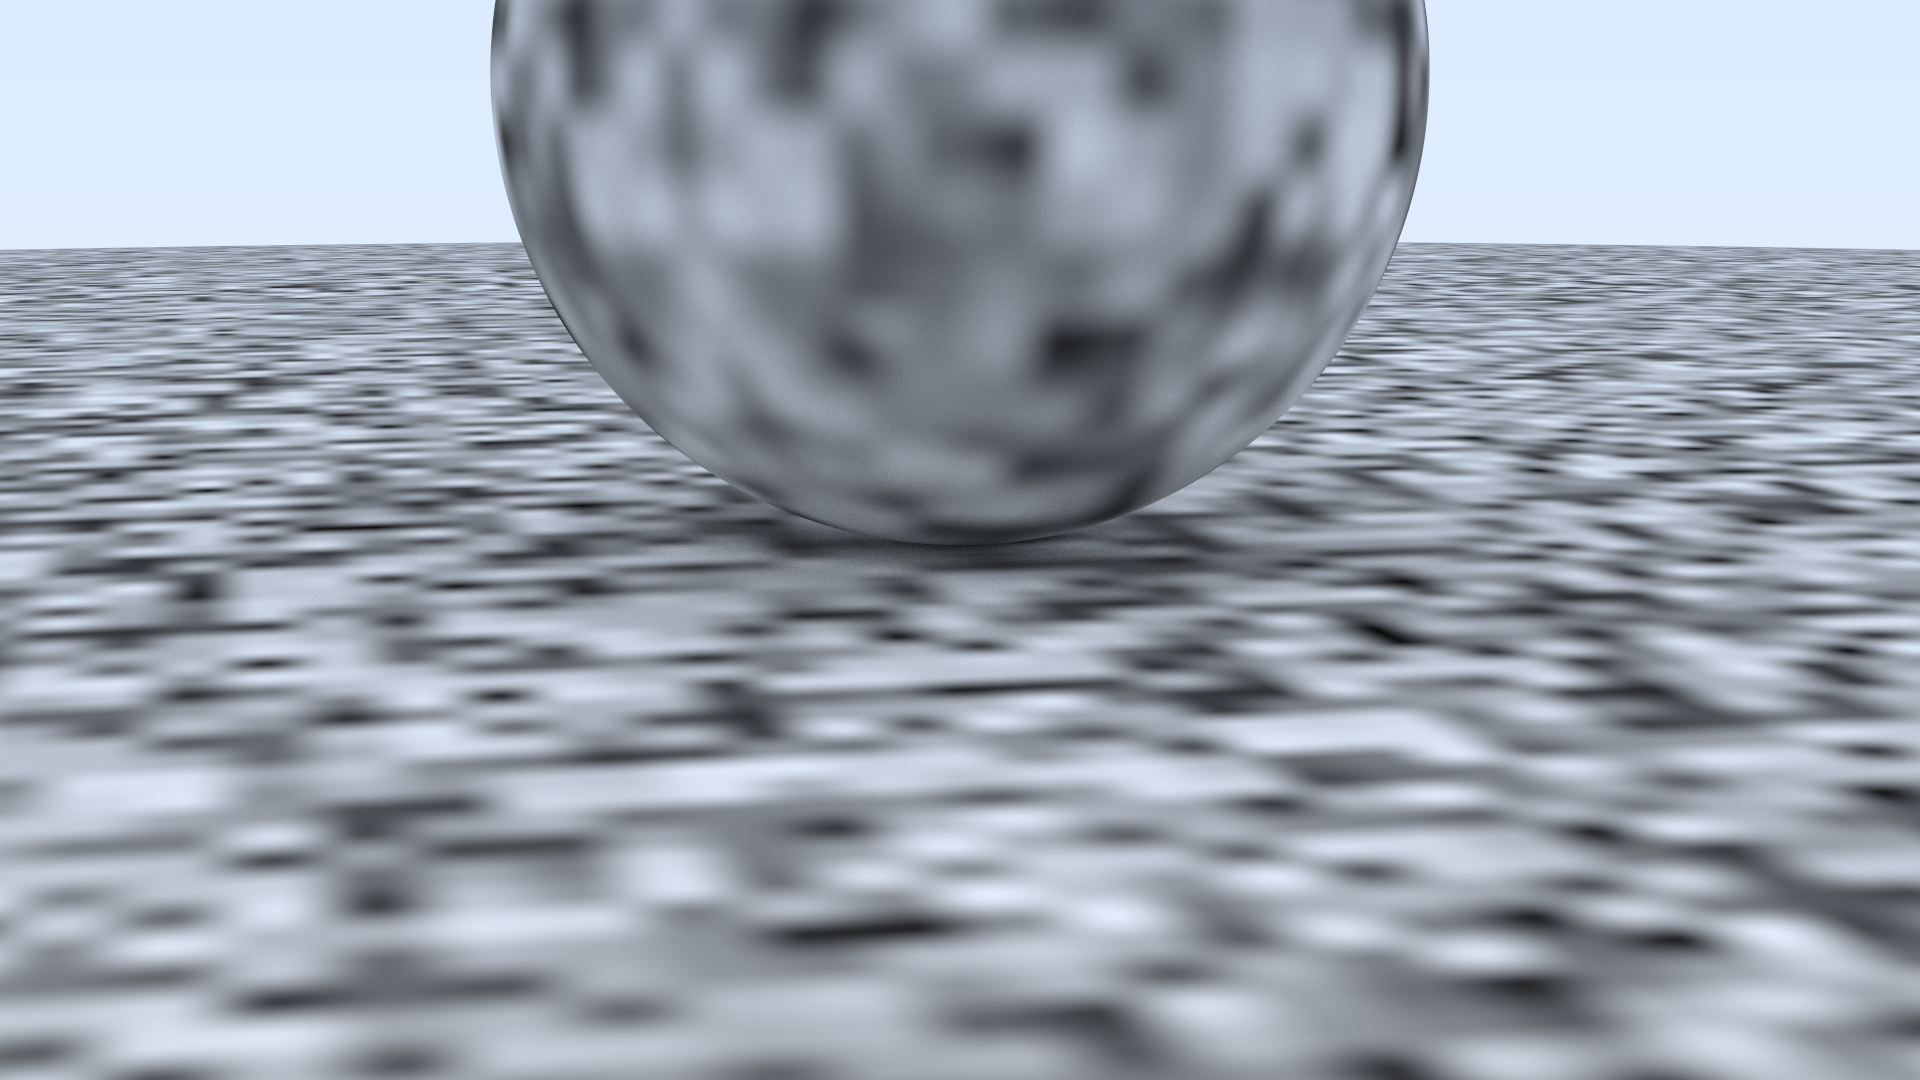
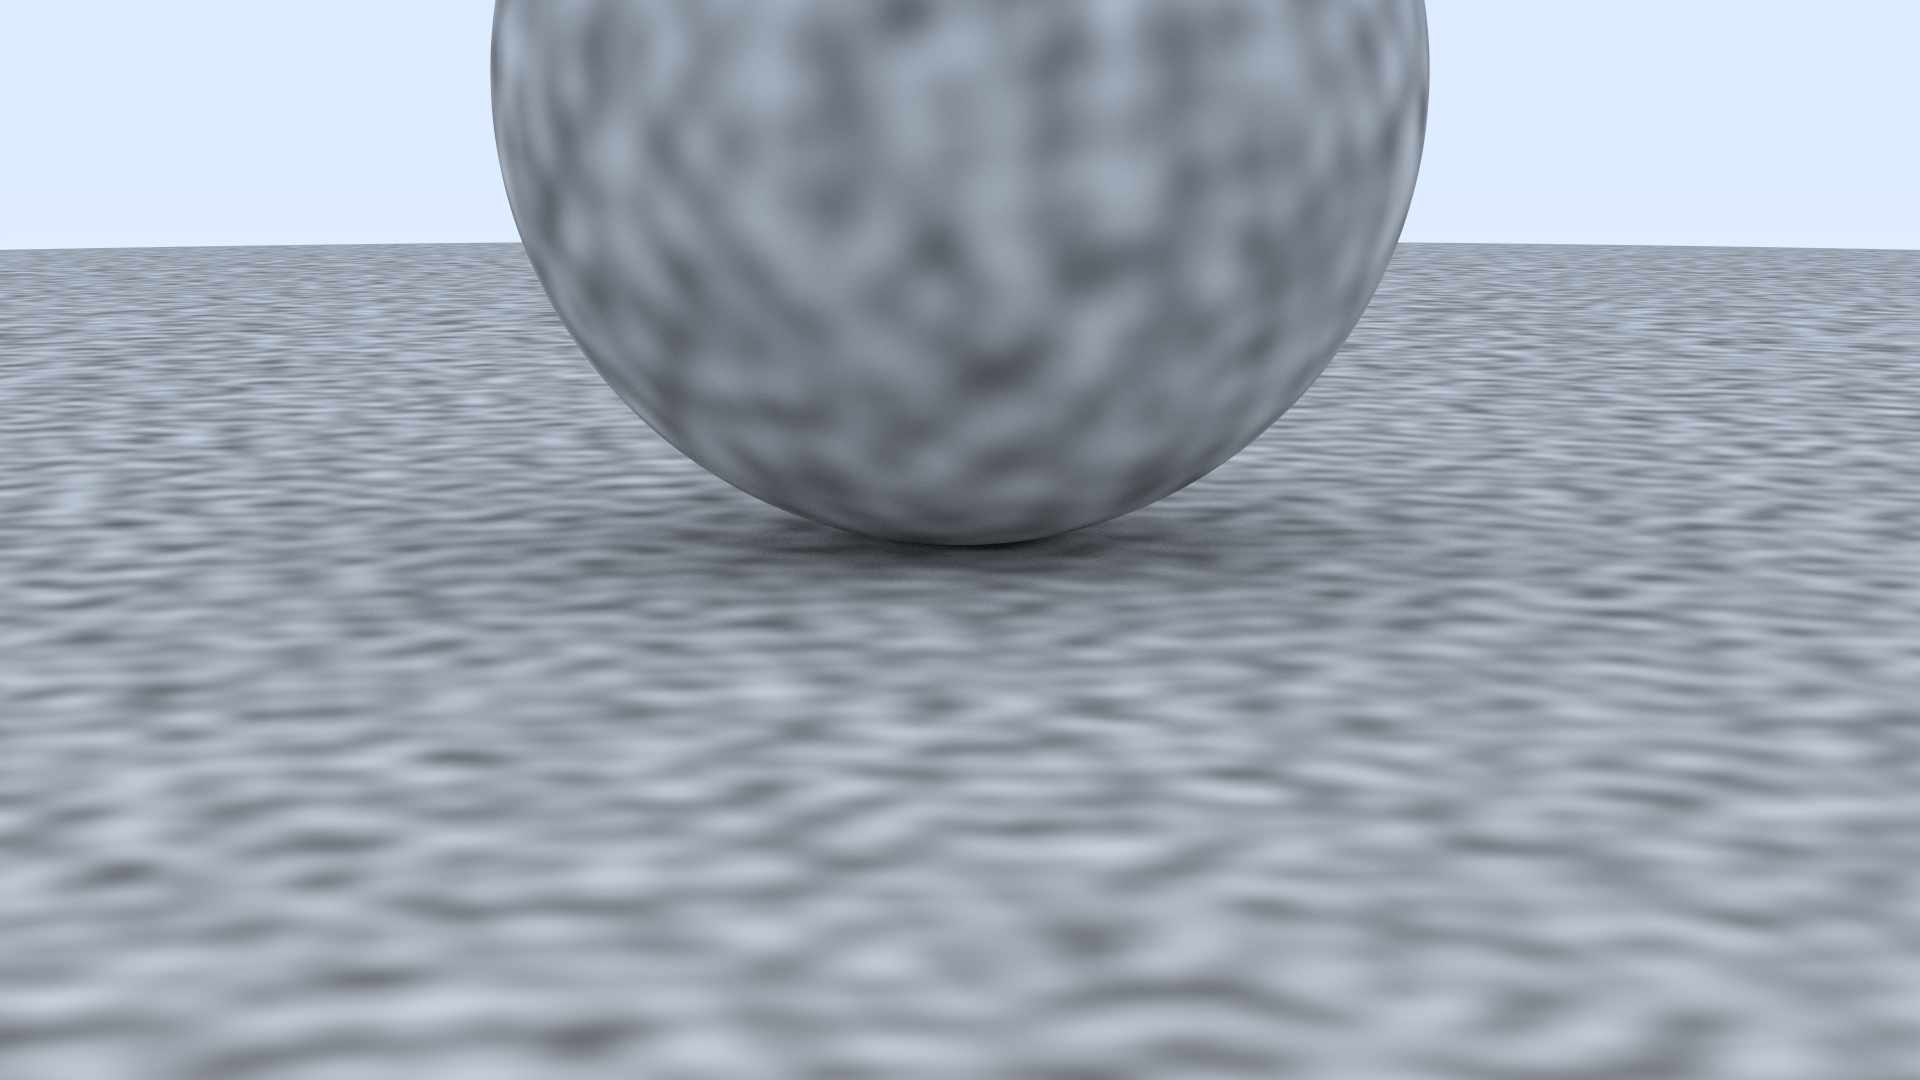
Perlin texture, shifted off integer values

diff --git a/perlin.h b/perlin.h
@@ -7,7 +7,7 @@ class perlin {
 public:
     __device__ perlin(curandState &rand_state) {
         for (int i = 0; i < point_count; i++)
-            randfloat[i] = random_float(rand_state);
+            randvec[i] = unit_vector(vec3::random(rand_state, -1, 1));
 
         perlin_generate_perm(perm_x, rand_state);
         perlin_generate_perm(perm_y, rand_state);
@@ -19,30 +19,26 @@ public:
         auto v = p.y() - floorf(p.y());
         auto w = p.z() - floorf(p.z());
 
-        // use a Hermite cubic to round off the interpolation
-        u = u * u * (3 - 2 * u);
-        v = v * v * (3 - 2 * v);
-        w = w * w * (3 - 2 * w);
-
         auto i = int(floorf(p.x()));
         auto j = int(floorf(p.y()));
         auto k = int(floorf(p.z()));
 
         // 进行三线性插值平滑噪声
-        float c[2][2][2];
+        vec3 c[2][2][2];
         for (int di = 0; di < 2; di++)
             for (int dj = 0; dj < 2; dj++)
                 for (int dk = 0; dk < 2; dk++)
                     // x & 255: 将 x 截断成 0 - 255 的整数
                     // ^ 进行异或哈希
-                    c[di][dj][dk] = randfloat[perm_x[(i + di) & 255] ^ perm_x[(j + dj) & 255] ^ perm_x[(k + dk) & 255]];
+                    c[di][dj][dk] = randvec[perm_x[(i + di) & 255] ^ perm_x[(j + dj) & 255] ^ perm_x[(k + dk) & 255]];
 
-        return trilinear_interp(c, u, v, w);
+        return perlin_interp(c, u, v, w);
     }
 
 private:
     static const int point_count = 256;
     float randfloat[point_count];
+    vec3 randvec[point_count];
     int perm_x[point_count];
     int perm_y[point_count];
     int perm_z[point_count];
@@ -62,17 +58,26 @@ private:
         }
     }
 
-    __device__ static float trilinear_interp(float c[2][2][2], float u, float v, float w) {
+    __device__ static float perlin_interp(vec3 c[2][2][2], float u, float v, float w) {
+        // use a Hermite cubic to round off the interpolation
+        auto uu = u * u * (3 - 2 * u);
+        auto vv = v * v * (3 - 2 * v);
+        auto ww = w * w * (3 - 2 * w);
+
         // 三线性插值
         auto accum = 0.0f;
         for (int i = 0; i < 2; i++)
             for (int j = 0; j < 2; j++)
-                for (int k = 0; k < 2; k++)
-                    accum += (i * u + (1 - i) * (1 - u))
-                            * (j * v + (1 - j) * (1 - v))
-                            * (k * w + (1 - k) * (1 - w))
-                            * c[i][j][k];
-        return accum;
+                for (int k = 0; k < 2; k++) {
+                    vec3 weight_v(u - i, v - j, w - k);
+                    accum += (i * uu + (1 - i) * (1 - uu))
+                            * (j * vv + (1 - j) * (1 - vv))
+                            * (k * ww + (1 - k) * (1 - ww))
+                            * dot(c[i][j][k], weight_v);
+                }
+
+        // map accum range from [-1, +1] to [0, 1]
+        return 0.5f * (1.0f + accum);
     }
 };
 
